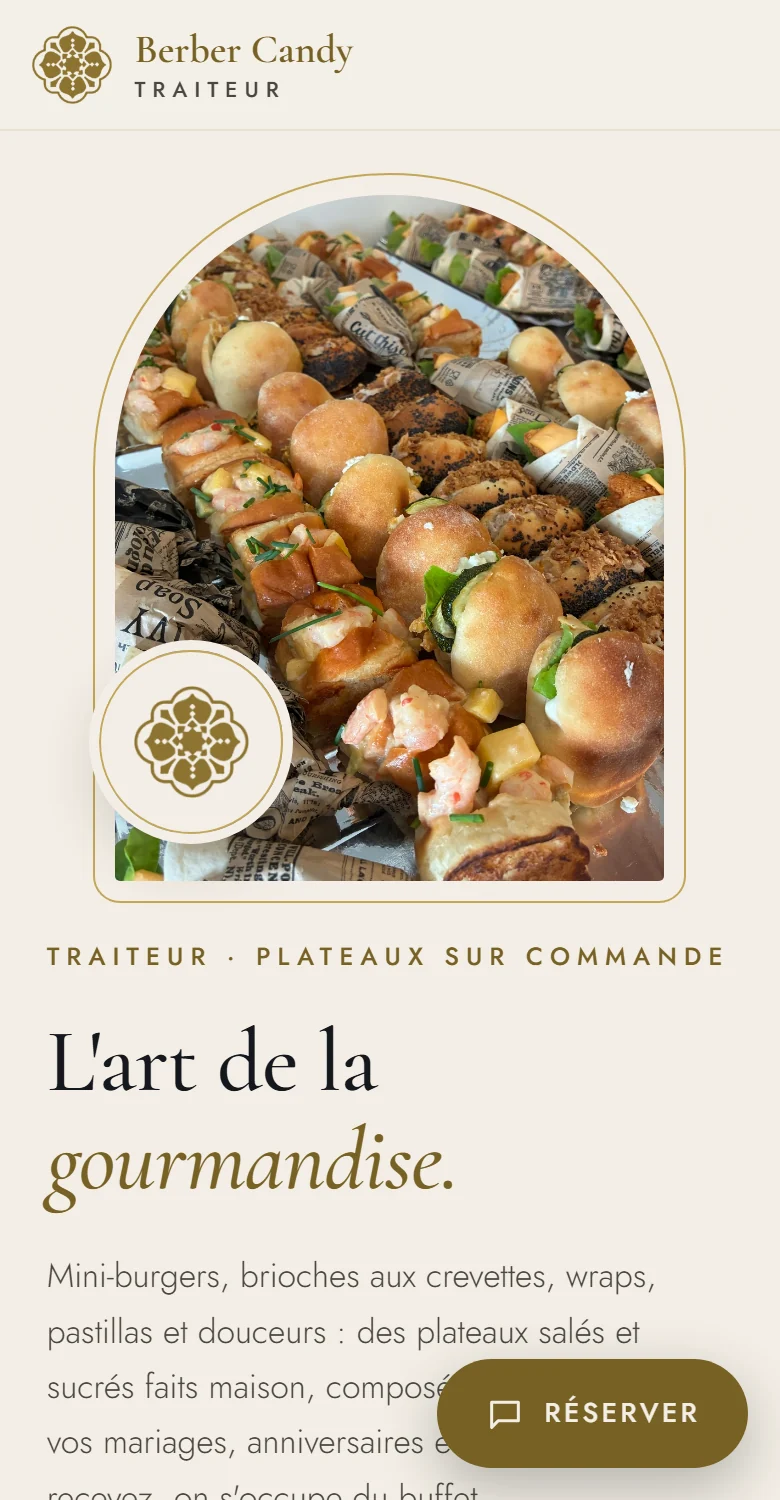
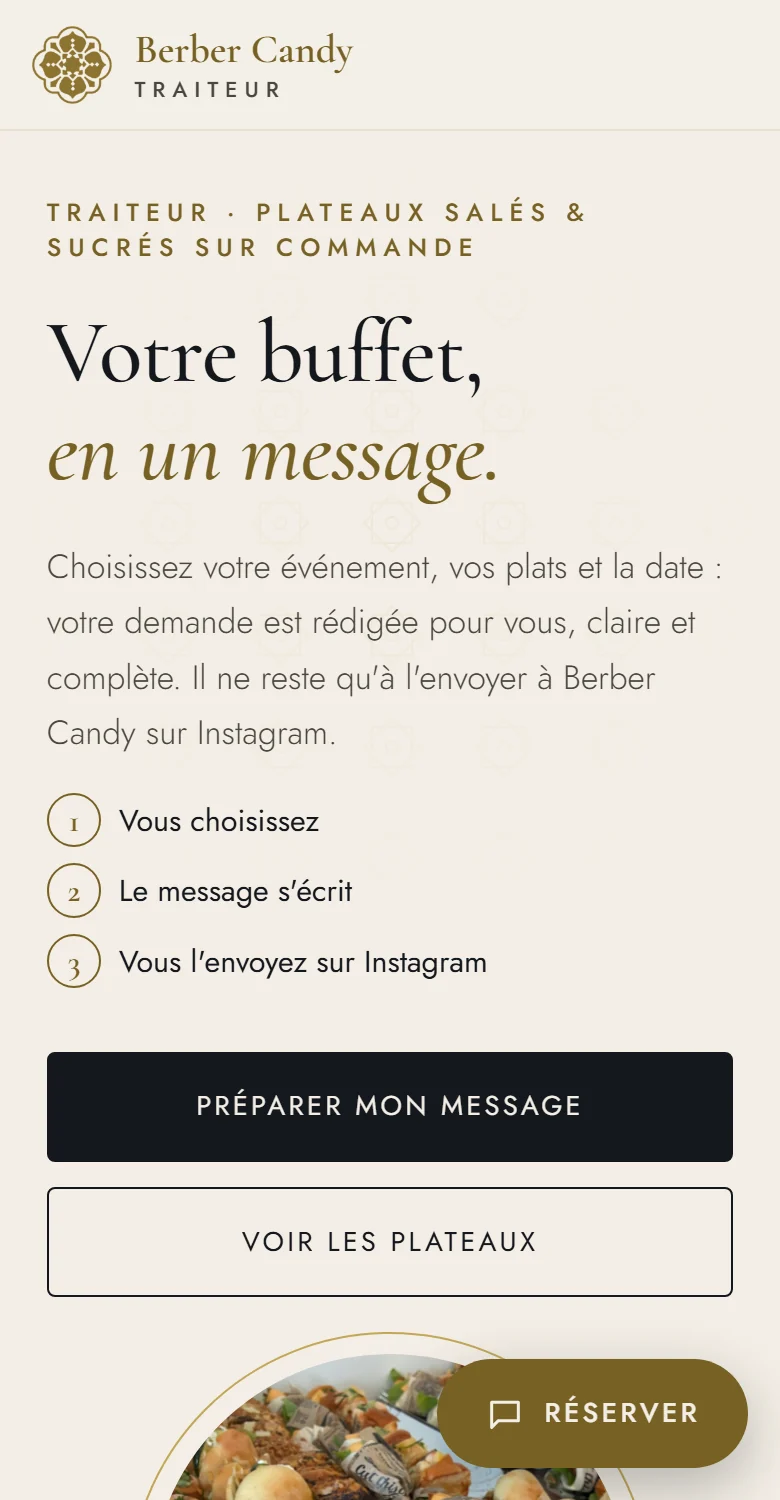
Met à jour Berber Candy : le site est construit autour du formulaire
- Nouvelles captures : accueil, formulaire avec message en direct, plats et quantités, message prêt à envoyer
- Description réécrite (FR/EN) dans le chapitre, llms.txt et les données structurées

Claude-Session: https://claude.ai/code/session_01EpDP6xfQWFndbCKfKSWG9N

diff --git a/src/script.js b/src/script.js
@@ -98,16 +98,18 @@ var projects = [
         url: 'https://berber-candy.vercel.app/',
         theme: { bg: '#15181E', fg: '#F3EEE5', accent: '#C3A75A' },
         tags: ['HTML', 'CSS', 'JavaScript', 'SEO', 'Vercel'],
-        sub: { fr: 'Traiteur sur commande — site vitrine', en: 'Made-to-order catering — showcase website' },
+        sub: { fr: 'Traiteur sur commande — la demande Instagram rédigée en 1 minute', en: 'Made-to-order catering — the Instagram request written in 1 minute' },
         desc: {
-            fr: 'Site vitrine pour un traiteur artisanal qui prépare des plateaux salés et sucrés sur commande, réservés par message Instagram. Direction artistique inspirée du zellige, photos servies en AVIF/WebP à plusieurs tailles, référencement complet (données structurées, sitemap, Search Console, IndexNow) et version mobile soignée : contrastes vérifiés, zones tactiles de 44 px, bouton « Réserver » toujours accessible.',
-            en: 'Showcase website for an artisan caterer making sweet and savoury platters to order, booked via Instagram message. Zellige-inspired art direction, photos served as multi-size AVIF/WebP, full SEO setup (structured data, sitemap, Search Console, IndexNow) and a polished mobile version: checked contrast, 44px touch targets, an always-reachable "Book" button.'
+            fr: 'Site pour un traiteur artisanal qui ne prend ses commandes que par message Instagram. Le site est construit autour d\'un formulaire : le client choisit l\'événement, la date, les plats et leurs quantités, et le message s\'écrit en direct. Un clic le copie et ouvre la conversation Instagram : le client n\'a plus qu\'à coller, et la traiteuse reçoit un brief complet au lieu de dix allers-retours. Direction artistique inspirée du zellige, photos en AVIF/WebP, SEO complet (données structurées, Search Console, IndexNow) et accessibilité mobile soignée.',
+            en: 'Website for an artisan caterer who only takes orders by Instagram message. The site is built around a form: the client picks the event, date, dishes and quantities, and the message writes itself live. One click copies it and opens the Instagram chat: the client just pastes, and the caterer gets a complete brief instead of ten back-and-forths. Zellige-inspired art direction, AVIF/WebP photos, full SEO (structured data, Search Console, IndexNow) and careful mobile accessibility.'
         },
         shots: [
-            { src: 'Img/berbercandy.webp',          fr: 'Page d\'accueil',        en: 'Home page' },
-            { src: 'Img/berbercandy-mobile-1.webp', fr: 'Accueil mobile',         en: 'Mobile home' },
-            { src: 'Img/berbercandy-mobile-2.webp', fr: 'Les plateaux',           en: 'The platters' },
-            { src: 'Img/berbercandy-mobile-3.webp', fr: 'Commander en 3 étapes',  en: 'Order in 3 steps' }
+            { src: 'Img/berbercandy.webp',             fr: 'Page d\'accueil',               en: 'Home page' },
+            { src: 'Img/berbercandy-formulaire.webp',  fr: 'Le message s\'écrit en direct',  en: 'The message writes itself live' },
+            { src: 'Img/berbercandy-mobile-1.webp',    fr: 'Accueil mobile',                en: 'Mobile home' },
+            { src: 'Img/berbercandy-mobile-2.webp',    fr: 'Plats et quantités',            en: 'Dishes and quantities' },
+            { src: 'Img/berbercandy-mobile-3.webp',    fr: 'Message prêt à envoyer',        en: 'Message ready to send' },
+            { src: 'Img/berbercandy-mobile-4.webp',    fr: 'Les plateaux',                  en: 'The platters' }
         ]
     },
     {

diff --git a/src/index.html b/src/index.html
@@ -87,7 +87,7 @@
                 "@type": "WebSite",
                 "name": "Berber Candy",
                 "url": "https://berber-candy.vercel.app/",
-                "description": "Site vitrine pour un traiteur artisanal : plateaux salés et sucrés sur commande, réservation sur Instagram."
+                "description": "Site pour un traiteur artisanal, construit autour d'un formulaire qui rédige la demande de commande et l'envoie sur Instagram."
             },
             {
                 "@type": "SoftwareApplication",
